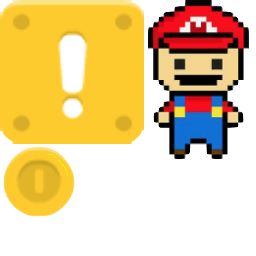
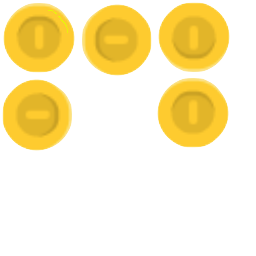
Add files via upload

diff --git a/a1_platform_05/data.js b/a1_platform_05/data.js
@@ -1,1 +1,1 @@
-{"project": [null,null,[[0,false,true,true,true,true,true,true,true,false],[1,false,true,true,true,true,true,true,true,true]],[["t0",0,false,[],0,0,null,[["Default",5,false,1,0,false,125107675096154,[["images/bg-sheet0.png",302451,0,0,686,386,1,0.5014577507972717,0.5025906562805176,[],[],1]]]],[],false,false,203734768609195,[],null],["t1",0,false,[342085832479919],0,0,null,[["Default",5,false,1,0,false,829421253649077,[["images/coin-sheet0.png",27596,1,145,77,73,1,0.5064935088157654,0.5068492889404297,[],[-0.3376625180244446,-0.3287672996520996,-0.01298749446868897,-0.479451984167099,0.3246755003929138,-0.3287672996520996,0.4415584802627564,-0.0136982798576355,0.3246755003929138,0.3150687217712402,-0.01298749446868897,0.4657537341117859,-0.350649505853653,0.3287667036056519,-0.4675325155258179,-0.0136982798576355],0],["images/coin-sheet0.png",27596,1,1,142,142,1,0.5,0.5,[],[-0.4647887051105499,-0.4647887051105499,0,-0.5,0.4718310236930847,-0.4718309938907623,0.5,0,0.4577469825744629,0.4577469825744629,0,0.5,-0.4577465057373047,0.4577469825744629,-0.5,0],0],["images/coin-sheet1.png",4162,0,0,142,142,1,0.5,0.5,[],[],1],["images/coin-sheet0.png",27596,145,1,108,159,1,0.5,0.5031446814537048,[],[-0.3518519997596741,-0.4025156795978546,0,-0.5031446814537048,0.3518519997596741,-0.4025156795978546,0.3703699707984924,-0.006289690732955933,0.2685189843177795,0.3396223187446594,0,0.4025152921676636,-0.2777779996395111,0.3459123373031616,-0.3796299993991852,-0.006289690732955933],0]]]],[],false,false,720106038645088,[],null],["t2",0,false,[221870841719898],1,0,null,[["Default",5,false,1,0,false,491056286148166,[["images/coin-sheet0.png",27596,1,1,142,142,1,0.5,0.5,[],[-0.4647887051105499,-0.4647887051105499,0,-0.5,0.4718310236930847,-0.4718309938907623,0.5,0,0.4577469825744629,0.4577469825744629,0,0.5,-0.4577465057373047,0.4577469825744629,-0.5,0],0]]]],[["Solid",2,211090460024901]],false,false,687976886396048,[],null],["t3",0,false,[],1,0,null,[["Default",5,false,1,0,false,539534764750199,[["images/coin-sheet0.png",27596,145,1,108,159,1,0.5,0.5031446814537048,[],[-0.3518519997596741,-0.4025156795978546,0,-0.5031446814537048,0.3518519997596741,-0.4025156795978546,0.3703699707984924,-0.006289690732955933,0.2685189843177795,0.3396223187446594,0,0.4025152921676636,-0.2777779996395111,0.3459123373031616,-0.3796299993991852,-0.006289690732955933],0]]]],[["Platform",3,634412460986143]],false,false,968823062525263,[],null],["t4",1,false,[],1,0,["images/tiledbackground3.png",4162,1],null,[["Solid",2,413486064801844]],false,false,711521509704728,[],null]],[],[["Layout 1",854,480,false,"Event sheet 1",559762071485631,[["bg",0,965893036493192,true,[255,255,255],false,1,1,1,false,false,1,0,0,[[[411,216,0,986,558,0,0,1,0.5014577507972717,0.5025906562805176,0,0,[]],0,0,[],[],[0,"Default",0,1]]],[]],["main",1,153109445909036,true,[255,255,255],true,1,1,1,false,false,1,0,0,[[[-153.6103820800781,209.8630065917969,0,34,32,0,0,1,0.5064935088157654,0.5068492889404297,0,0,[]],1,1,[[0]],[],[0,"Default",0,1]],[[70,364,0,39,57,0,0,1,0.5,0.5031446814537048,0,0,[]],3,4,[],[[150,3000,1500,750,4000,70,0,0,1,1]],[0,"Default",0,1]],[[-59,407,0,982,92,0,0,1,0,0,0,0,[]],4,6,[],[[1]],[0,0]],[[648,359,0,95,48,0,0,1,0,0,0,0,[]],4,10,[],[[1]],[0,0]],[[499,298,0,95,48,0,0,1,0,0,0,0,[]],4,11,[],[[1]],[0,0]],[[187,283,0,237,56,0,0,1,0,0,0,0,[]],4,13,[],[[1]],[0,0]],[[785,298,0,88,48,0,0,1,0,0,0,0,[]],4,14,[],[[1]],[0,0]],[[-109,-211,0,105,631,0,0,1,0,0,0,0,[]],4,16,[],[[1]],[0,0]],[[858,-215,0,105,637,0,0,1,0,0,0,0,[]],4,17,[],[[1]],[0,0]],[[36,216,0,95,48,0,0,1,0,0,0,0,[]],4,18,[],[[1]],[0,0]],[[451,312,0,54,54,0,0,1,0.5,0.5,0,0,[]],2,19,[[1]],[[1]],[0,"Default",0,1]],[[160,311,0,54,54,0,0,1,0.5,0.5,0,0,[]],2,3,[[1]],[[1]],[0,"Default",0,1]],[[199,142,0,120,56,0,0,1,0,0,0,0,[]],4,2,[],[[1]],[0,0]],[[346,171,0,54,54,0,0,1,0.5,0.5,0,0,[]],2,5,[[1]],[[1]],[0,"Default",0,1]],[[300,58,0,54,54,0,0,1,0.5,0.5,0,0,[]],2,7,[[1]],[[1]],[0,"Default",0,1]],[[373,142,0,120,56,0,0,1,0,0,0,0,[]],4,8,[],[[1]],[0,0]],[[354,58,0,54,54,0,0,1,0.5,0.5,0,0,[]],2,9,[[1]],[[1]],[0,"Default",0,1]],[[827,202,0,54,54,0,0,1,0.5,0.5,0,0,[]],2,12,[[1]],[[1]],[0,"Default",0,1]],[[524,-34,0,0,141,0,0,1,0,0,0,0,[]],4,15,[],[[1]],[0,0]],[[681,220,0,49,48,0,0,1,0,0,0,0,[]],4,20,[],[[1]],[0,0]],[[437,94,0,88,48,0,0,1,0,0,0,0,[]],4,21,[],[[1]],[0,0]]],[]]],[],[]]],[["Event sheet 1",[[0,null,false,null,973104339186111,[[3,4,null,0,false,false,false,514711719113461,false,[[4,2],[0,[0,0]],[0,[0,-2]]]],[2,5,null,0,false,false,false,841609308713788,false,[[10,0],[8,4],[7,[0,0]]]]],[[2,6,null,668144192355476,false,[[4,1],[5,[0,0]],[7,[0,0]]]],[2,7,null,245568508854605,false,[[3,0],[4,1]]],[2,8,null,671349339538653,false,[[10,0],[7,[0,1]]]],[1,9,null,455981657108065,false,[[10,0],[7,[5,[20,2,10,false,null],[0,64]]]]]]],[0,null,false,null,600358997972593,[[1,11,null,0,false,false,false,756179484945341,false,[[8,1],[0,[21,1,false,null,0]]]]],[[1,12,null,623903681805718,false,[[0,[5,[20,1,10,false,null],[0,8]]]]]]],[0,null,false,null,315033220862067,[[1,13,null,0,false,false,true,467973506092584,false,[[4,3]]]],[[1,14,null,484921204123477,false]]]]]],[],"media/",false,854,480,0,true,true,true,"1.0.0.0",true,false,4,0,25,false,true,1,true,"a1_platform_05",0,[]]}
+{"project": [null,null,[[0,false,true,true,true,true,true,true,true,false],[1,false,true,true,true,true,true,true,true,true]],[["t0",0,false,[],0,0,null,[["Default",5,false,1,0,false,125107675096154,[["images/bg-sheet0.png",302451,0,0,686,386,1,0.5014577507972717,0.5025906562805176,[],[],1]]]],[],false,false,203734768609195,[],null],["t1",0,false,[342085832479919],0,0,null,[["Default",5,false,1,0,false,829421253649077,[["images/coin-sheet0.png",17802,1,1,77,73,1,0.5064935088157654,0.5068492889404297,[],[-0.3376625180244446,-0.3287672996520996,-0.01298749446868897,-0.479451984167099,0.3246755003929138,-0.3287672996520996,0.4415584802627564,-0.0136982798576355,0.3246755003929138,0.3150687217712402,-0.01298749446868897,0.4657537341117859,-0.350649505853653,0.3287667036056519,-0.4675325155258179,-0.0136982798576355],0],["images/coin-sheet0.png",17802,80,1,73,77,1,0.5068492889404297,0.4935064911842346,[],[-0.3287670910358429,0.3376623392105103,-0.4794520139694214,0.01298701763153076,-0.3287670910358429,-0.3246753215789795,-0.01369860768318176,-0.4415584206581116,0.3150685429573059,-0.3246753215789795,0.465753436088562,0.01298701763153076,0.3287671208381653,0.350649356842041,-0.01369860768318176,0.4675324559211731],0],["images/coin-sheet0.png",17802,155,1,77,73,1,0.5064935088157654,0.5068492889404297,[],[0.3246753215789795,0.3150684833526611,0,0.465753436088562,-0.3376623392105103,0.3150684833526611,-0.4545454382896423,0,-0.3376623392105103,-0.3287671208381653,0,-0.4794520139694214,0.3376623392105103,-0.3424656987190247,0.4545454382896423,0],0],["images/coin-sheet0.png",17802,1,76,73,77,1,0.5068492889404297,0.5064935088157654,[],[0,0.4545454382896423,-0.3424656987190247,0.3376623392105103,-0.4794520139694214,0,-0.3287671208381653,-0.3376623392105103,0,-0.4545454382896423,0.3150684833526611,-0.3376623392105103,0.465753436088562,0,0.3150684833526611,0.3246753215789795],0],["images/coin-sheet0.png",17802,155,76,77,73,1,0.5064935088157654,0.5068492889404297,[],[-0.3376623392105103,-0.3287670910358429,-0.01298701763153076,-0.4794520139694214,0.3246753215789795,-0.3287670910358429,0.4415584206581116,-0.01369860768318176,0.3246753215789795,0.3150685429573059,-0.01298701763153076,0.465753436088562,-0.350649356842041,0.3287671208381653,-0.4675324559211731,-0.01369860768318176],0]]]],[],false,false,720106038645088,[],null],["t2",0,false,[221870841719898],1,0,null,[["Default",5,false,1,0,false,491056286148166,[["images/coinbox-sheet0.png",8470,0,0,142,142,1,0.5,0.5,[],[-0.4647887051105499,-0.4647887051105499,0,-0.5,0.4718310236930847,-0.4718309938907623,0.5,0,0.4577469825744629,0.4577469825744629,0,0.5,-0.4577465057373047,0.4577469825744629,-0.5,0],0]]]],[["Solid",2,211090460024901]],false,false,687976886396048,[],null],["t3",0,false,[],1,0,null,[["Default",5,false,1,0,false,539534764750199,[["images/player-sheet0.png",20618,0,0,108,159,1,0.5,0.5031446814537048,[],[-0.3518519997596741,-0.4025156795978546,0,-0.5031446814537048,0.3518519997596741,-0.4025156795978546,0.3703699707984924,-0.006289690732955933,0.2685189843177795,0.3396223187446594,0,0.4025152921676636,-0.2777779996395111,0.3459123373031616,-0.3796299993991852,-0.006289690732955933],0]]]],[["Platform",3,634412460986143]],false,false,968823062525263,[],null],["t4",1,false,[],1,0,["images/tiledbackground3.png",4162,1],null,[["Solid",2,413486064801844]],false,false,711521509704728,[],null]],[],[["Layout 1",854,480,false,"Event sheet 1",559762071485631,[["bg",0,965893036493192,true,[255,255,255],false,1,1,1,false,false,1,0,0,[[[411,216,0,986,558,0,0,1,0.5014577507972717,0.5025906562805176,0,0,[]],0,0,[],[],[0,"Default",0,1]]],[]],["main",1,153109445909036,true,[255,255,255],true,1,1,1,false,false,1,0,0,[[[-153.6103820800781,209.8630065917969,0,34,32,0,0,1,0.5064935088157654,0.5068492889404297,0,0,[]],1,1,[[0]],[],[0,"Default",0,1]],[[70,364,0,39,57,0,0,1,0.5,0.5031446814537048,0,0,[]],3,4,[],[[150,3000,1500,750,4000,70,0,0,1,1]],[0,"Default",0,1]],[[-59,407,0,982,92,0,0,1,0,0,0,0,[]],4,6,[],[[1]],[0,0]],[[648,359,0,95,48,0,0,1,0,0,0,0,[]],4,10,[],[[1]],[0,0]],[[499,298,0,95,48,0,0,1,0,0,0,0,[]],4,11,[],[[1]],[0,0]],[[187,283,0,237,56,0,0,1,0,0,0,0,[]],4,13,[],[[1]],[0,0]],[[785,298,0,88,48,0,0,1,0,0,0,0,[]],4,14,[],[[1]],[0,0]],[[-109,-211,0,105,631,0,0,1,0,0,0,0,[]],4,16,[],[[1]],[0,0]],[[858,-215,0,105,637,0,0,1,0,0,0,0,[]],4,17,[],[[1]],[0,0]],[[36,216,0,95,48,0,0,1,0,0,0,0,[]],4,18,[],[[1]],[0,0]],[[451,312,0,54,54,0,0,1,0.5,0.5,0,0,[]],2,19,[[1]],[[1]],[0,"Default",0,1]],[[160,311,0,54,54,0,0,1,0.5,0.5,0,0,[]],2,3,[[1]],[[1]],[0,"Default",0,1]],[[199,142,0,120,56,0,0,1,0,0,0,0,[]],4,2,[],[[1]],[0,0]],[[346,171,0,54,54,0,0,1,0.5,0.5,0,0,[]],2,5,[[1]],[[1]],[0,"Default",0,1]],[[300,58,0,54,54,0,0,1,0.5,0.5,0,0,[]],2,7,[[1]],[[1]],[0,"Default",0,1]],[[373,142,0,120,56,0,0,1,0,0,0,0,[]],4,8,[],[[1]],[0,0]],[[354,58,0,54,54,0,0,1,0.5,0.5,0,0,[]],2,9,[[1]],[[1]],[0,"Default",0,1]],[[827,202,0,54,54,0,0,1,0.5,0.5,0,0,[]],2,12,[[1]],[[1]],[0,"Default",0,1]],[[524,-34,0,0,141,0,0,1,0,0,0,0,[]],4,15,[],[[1]],[0,0]],[[681,220,0,49,48,0,0,1,0,0,0,0,[]],4,20,[],[[1]],[0,0]],[[437,94,0,88,48,0,0,1,0,0,0,0,[]],4,21,[],[[1]],[0,0]]],[]]],[],[]]],[["Event sheet 1",[[0,null,false,null,973104339186111,[[3,4,null,0,false,false,false,514711719113461,false,[[4,2],[0,[0,0]],[0,[0,-2]]]],[2,5,null,0,false,false,false,841609308713788,false,[[10,0],[8,4],[7,[0,0]]]]],[[2,6,null,668144192355476,false,[[4,1],[5,[0,0]],[7,[0,0]]]],[2,7,null,245568508854605,false,[[3,0],[4,1]]],[2,8,null,671349339538653,false,[[10,0],[7,[0,1]]]],[1,9,null,455981657108065,false,[[10,0],[7,[5,[20,2,10,false,null],[0,64]]]]]]],[0,null,false,null,600358997972593,[[1,11,null,0,false,false,false,756179484945341,false,[[8,1],[0,[21,1,false,null,0]]]]],[[1,12,null,623903681805718,false,[[0,[5,[20,1,10,false,null],[0,8]]]]]]],[0,null,false,null,315033220862067,[[1,13,null,0,false,false,true,467973506092584,false,[[4,3]]]],[[1,14,null,484921204123477,false]]]]]],[],"media/",false,854,480,0,true,true,true,"1.0.0.0",true,false,4,0,25,false,true,1,true,"a1_platform_05",0,[]]}

diff --git a/a1_platform_05/offline.js b/a1_platform_05/offline.js
@@ -1,5 +1,5 @@
 {
-	"version": 1762919980,
+	"version": 1762921259,
 	"fileList": [
 		"data.js",
 		"c2runtime.js",
@@ -7,7 +7,8 @@
 		"offlineClient.js",
 		"images/bg-sheet0.png",
 		"images/coin-sheet0.png",
-		"images/coin-sheet1.png",
+		"images/coinbox-sheet0.png",
+		"images/player-sheet0.png",
 		"images/tiledbackground3.png",
 		"icon-16.png",
 		"icon-32.png",
